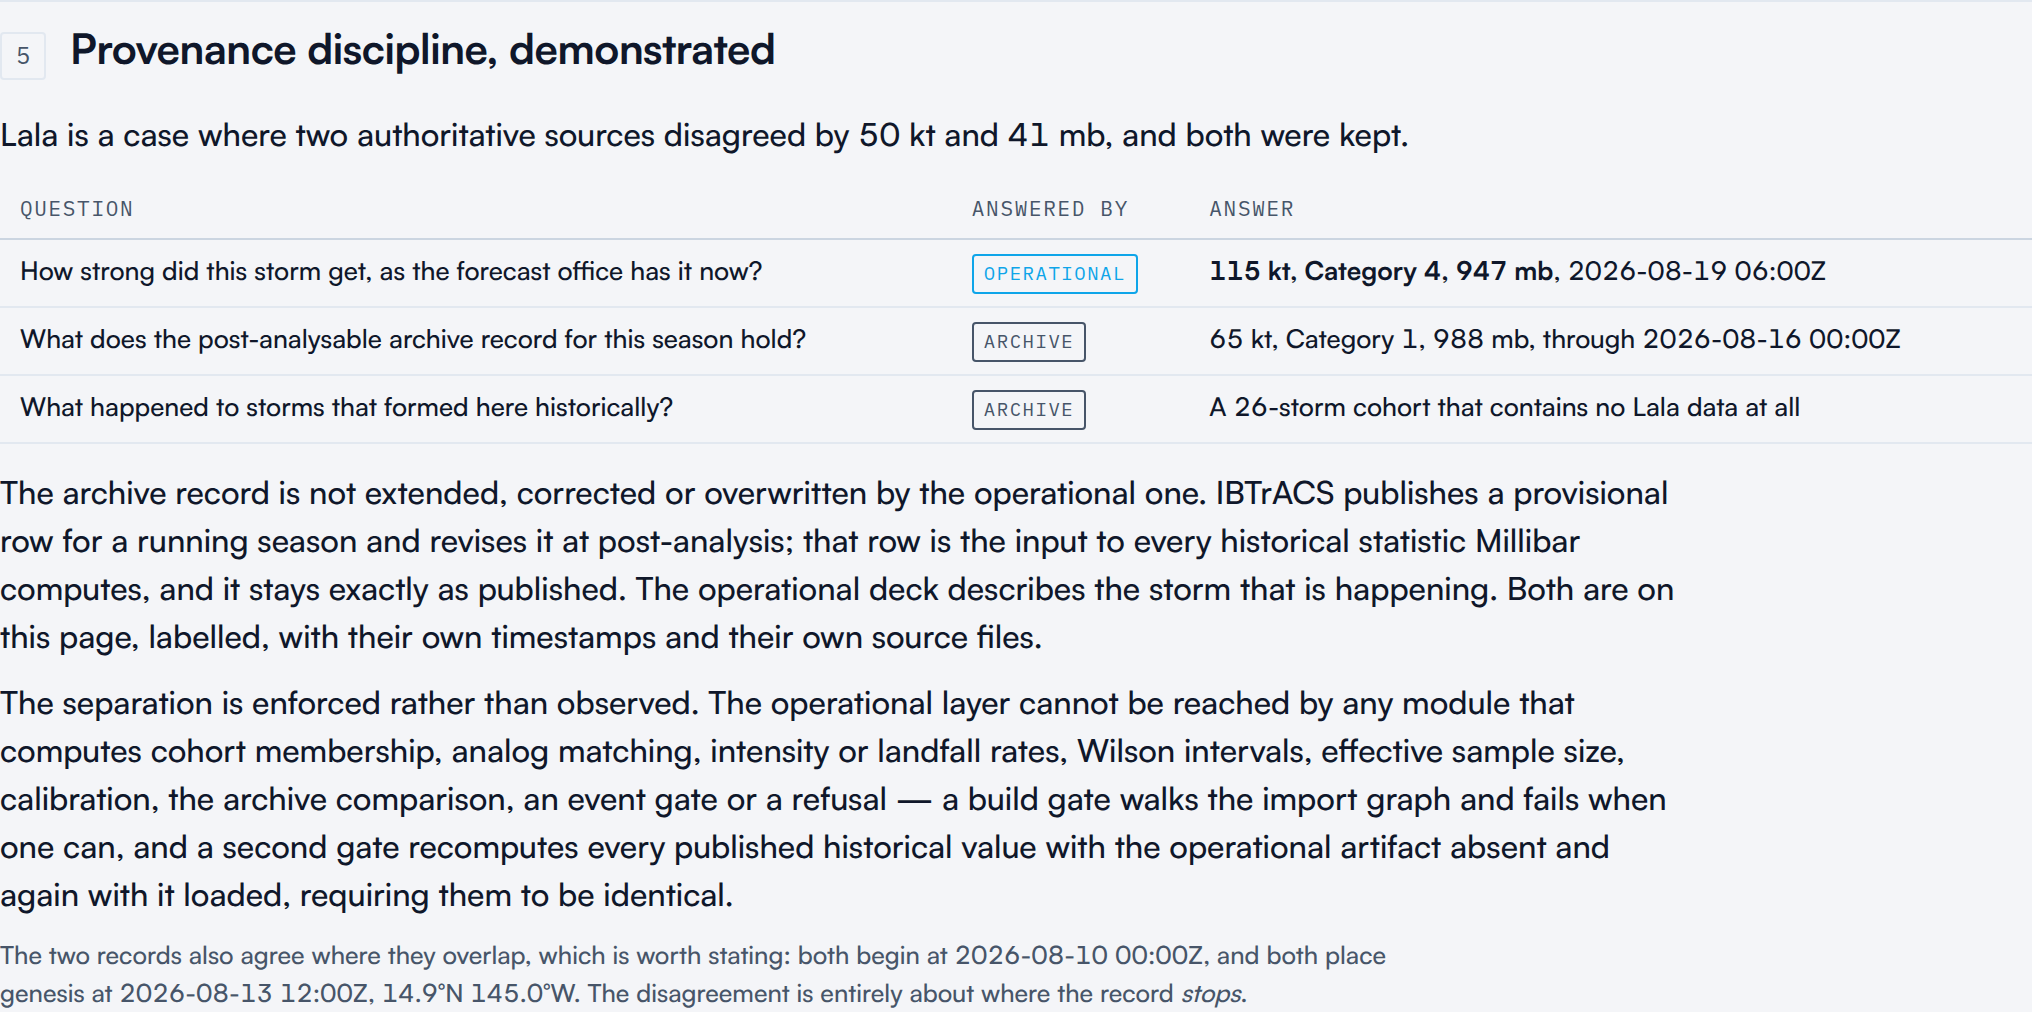
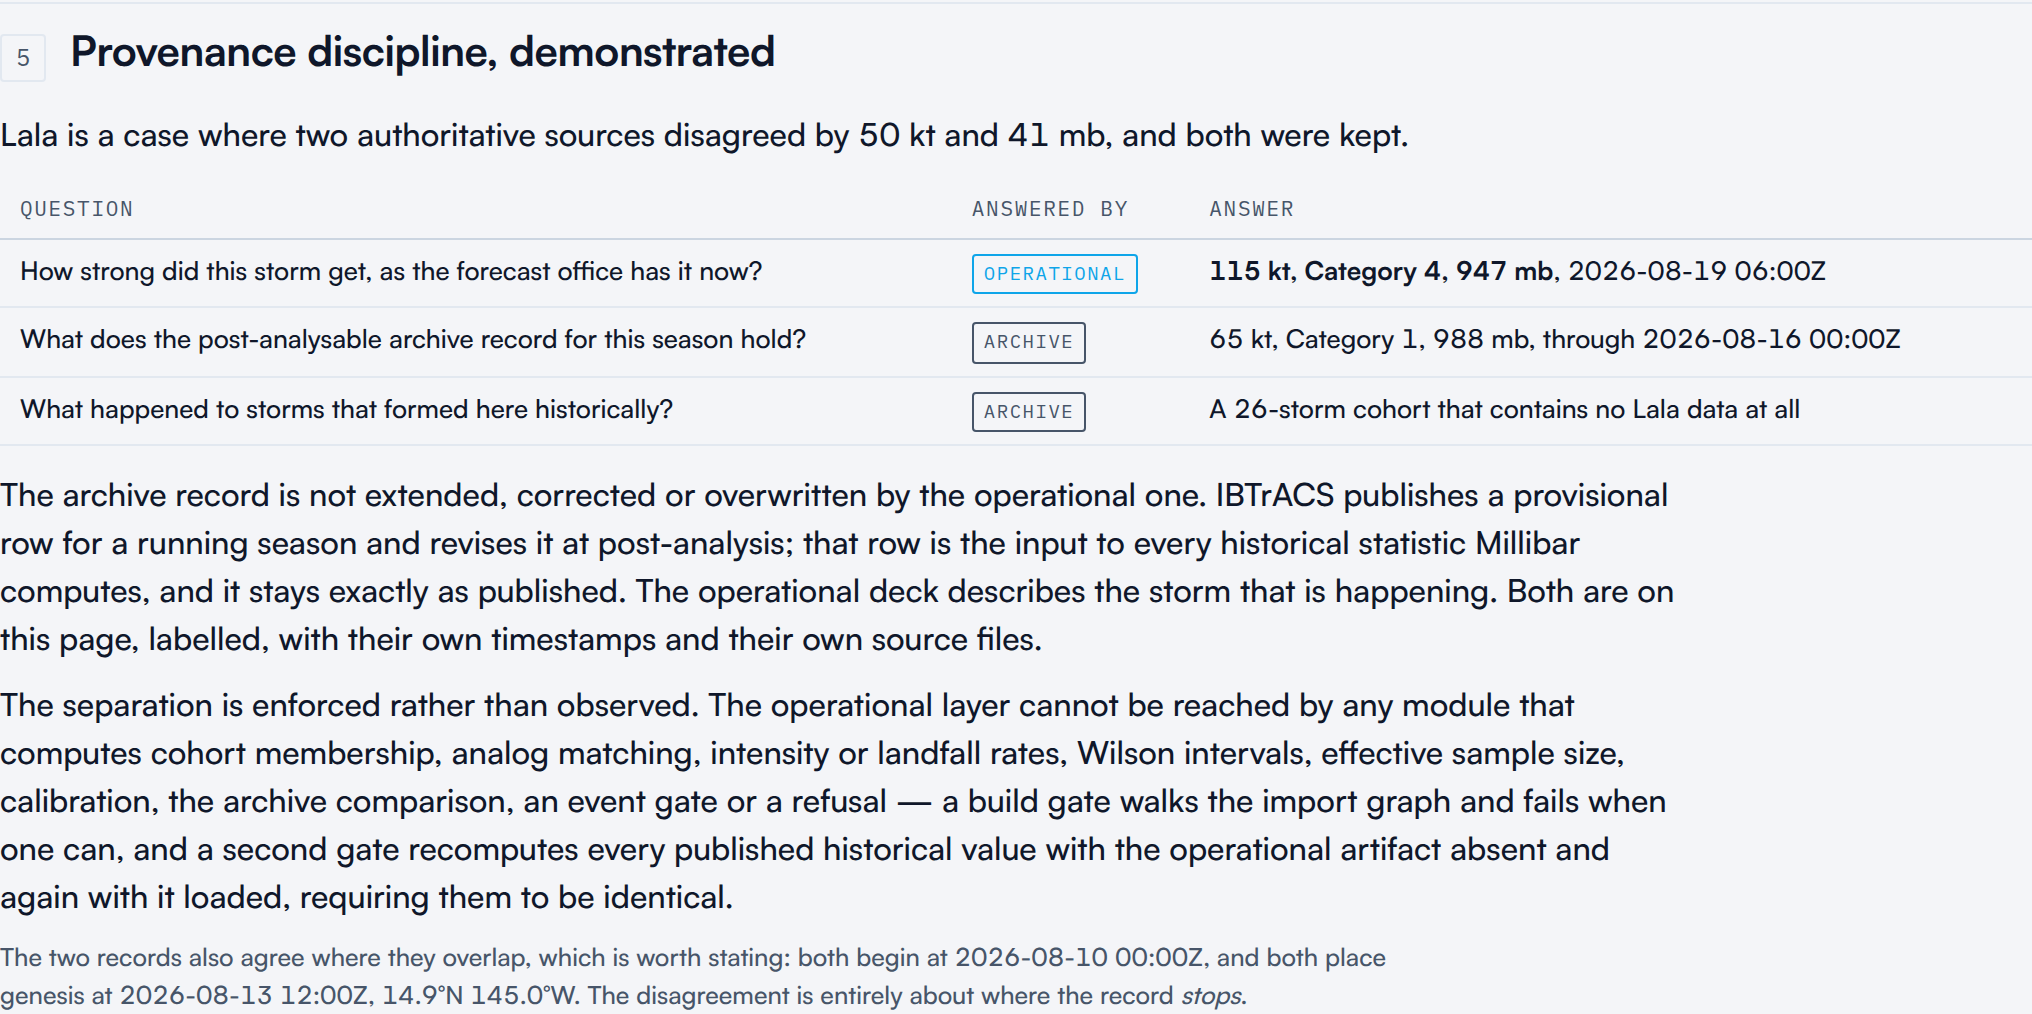
Remove the event-contract price column from the Lala dossier
The dossier is the first artifact institutional readers see, and a column of
event-contract prices in section 4 made a document about archive provenance
read like a trading surface. It is removed from the page, from facts.json and
from the three outreach notes.

WHAT GOES. The section 4 Market column and its cell values; the
EXTERNAL / PUBLIC CONTRACT provenance class and its tag; the note naming the
contract; pMarket in the checkpoint projection; the external_public_contract
block in facts.json. The provenance key is back to four classes, and the
masthead, the key and section 6 all state plainly again that no external or
public contract fact is used anywhere -- which is now unqualifiedly true.

WHAT STAYS. Everything the document actually argues from. The 141-entry
point-in-time ledger, its first-record-to-outcome lead, the model and
calibrated probabilities, the calibration refusal, and the replay-discipline
framing are untouched. The pinned ledger under data/ is still the verbatim
CP012026 slice, including fields this dossier does not read: it is the evidence
that these values were recorded before the outcome and unedited, and quietly
stripping fields from it to manage positioning is the kind of silent revision
this whole document argues against.

No Storm Atlas source, no pipeline, no second version of the page. The three
masthead screenshots and the section 4 shot are re-taken because the page
changed; the rest are unchanged.
[…]

diff --git a/docs/dossier/lala/index.html b/docs/dossier/lala/index.html
@@ -76,7 +76,6 @@ tr.mark td,tr.mark th{background:var(--surface-sunken)}
 .t-operational{color:var(--accent)}
 .t-derived{color:var(--text-2)}
 .t-recordedmillibar{color:var(--accent)}
-.t-externalpubliccontract{color:var(--warn)}
 .flag{font-family:var(--font-mono);font-size:10.5px;letter-spacing:.06em;color:var(--warn)}
 .pos{color:var(--pos)}.neg{color:var(--neg)}
 .refuse-in{font-family:var(--font-mono);font-size:10px;color:var(--warn);letter-spacing:.04em}
@@ -131,13 +130,13 @@ footer p{font-size:11.5px;color:var(--text-2);max-width:none}
     <span>Built 2026-08-25 20:52Z</span>
     <span>Archive c3998bd7bd784a62 · built 2026-08-18</span>
     <span>Methodology 1.1.0</span>
-    <span>Insurance / reinsurance contract facts used: <b>none</b></span>
+    <span>External / public contract facts used: <b>none</b></span>
   </div>
 </header>
 
 <section class="key">
   <h2>How to read every number on this page</h2>
-  <p class="lead">Five sources answer five different questions. They are labelled everywhere and
+  <p class="lead">Four sources answer four different questions. They are labelled everywhere and
   never combined.</p>
   <table>
     <tbody>
@@ -145,12 +144,11 @@ footer p{font-size:11.5px;color:var(--text-2);max-width:none}
       <tr><td><span class="tag t-operational">OPERATIONAL</span></td><td>ATCF b-deck and operational SHIPS, as the forecast office had them. Revised while a storm is live. Used to describe <b>this storm</b>, and nothing else.</td></tr>
       <tr><td><span class="tag t-derived">DERIVED</span></td><td>Computed here by replaying a rule the archive already owns. The rule is named wherever a derived value appears.</td></tr>
       <tr><td><span class="tag t-recordedmillibar">RECORDED / MILLIBAR</span></td><td>Timestamped Millibar system output, pinned here from docs/data/forecast-log.json. Evidence of what the system recorded at that instant. It is not an upstream observation, it is not evidence of forecasting skill, and it was not necessarily published externally at the time.</td></tr>
-      <tr><td><span class="tag t-externalpubliccontract">EXTERNAL / PUBLIC CONTRACT</span></td><td>The last quoted price on <code>KXHURRICANENAMES-26DEC01CPAC-LAL</code>, a public binary event contract, as Millibar recorded it at that instant. It appears in one column of section 4 and nowhere else. It is not an insurance or reinsurance contract, and not a Millibar valuation of one.</td></tr>
     </tbody>
   </table>
-  <p class="note">No insurance or reinsurance contract fact is used anywhere in this document. No
-  carrier, policy, trigger geometry, attachment threshold or payout function is named, reconstructed
-  or implied.</p>
+  <p class="note">No external or public contract fact is used anywhere in this document. No carrier,
+  policy, trigger geometry, attachment threshold or payout function is named, reconstructed or
+  implied, and no price quoted or settled outside Millibar enters any figure here.</p>
 </section>
 
 <!-- ============================================================ 1 -->
@@ -377,22 +375,17 @@ footer p{font-size:11.5px;color:var(--text-2);max-width:none}
   either exists for this storm.</p>
 
   <table class="chron">
-    <thead><tr><th>UTC recorded</th><th>Checkpoint</th><th class="n">Storm</th><th class="n">Model</th><th class="n">Calibrated</th><th class="n">Market<div class="th2">external / public contract</div></th><th class="n">Lead to outcome</th></tr></thead>
+    <thead><tr><th>UTC recorded</th><th>Checkpoint</th><th class="n">Storm</th><th class="n">Model</th><th class="n">Calibrated</th><th class="n">Lead to outcome</th></tr></thead>
     <tbody>
-      <tr><td>2026-08-14 16:22Z</td><td>first record of any kind</td><td class="n">50 kt</td><td class="n">59.8%</td><td class="n">—</td><td class="n">81.5%</td><td class="n">26 h</td></tr>
-      <tr><td>2026-08-15 17:57Z</td><td>last record before the outcome</td><td class="n">60 kt</td><td class="n">67.4%</td><td class="n">75.4%</td><td class="n">79.0%</td><td class="n">3 min</td></tr>
-      <tr><td>2026-08-19 08:35Z</td><td>highest intensity recorded</td><td class="n">115 kt</td><td class="n">99.0%</td><td class="n">99.0%</td><td class="n">99.0%</td><td class="n">—</td></tr>
-      <tr><td>2026-08-25 20:48Z</td><td>most recent record</td><td class="n">45 kt</td><td class="n">1.0%</td><td class="n">1.0%</td><td class="n">—</td><td class="n">—</td></tr>
+      <tr><td>2026-08-14 16:22Z</td><td>first record of any kind</td><td class="n">50 kt</td><td class="n">59.8%</td><td class="n">—</td><td class="n">26 h</td></tr>
+      <tr><td>2026-08-15 17:57Z</td><td>last record before the outcome</td><td class="n">60 kt</td><td class="n">67.4%</td><td class="n">75.4%</td><td class="n">3 min</td></tr>
+      <tr><td>2026-08-19 08:35Z</td><td>highest intensity recorded</td><td class="n">115 kt</td><td class="n">99.0%</td><td class="n">99.0%</td><td class="n">—</td></tr>
+      <tr><td>2026-08-25 20:48Z</td><td>most recent record</td><td class="n">45 kt</td><td class="n">1.0%</td><td class="n">1.0%</td><td class="n">—</td></tr>
     </tbody>
   </table>
   <p class="note">Checkpoints are chosen for what each establishes — the first record, the last before the outcome, the highest intensity recorded, and the current state — not for how they read. Full ledger: <code>data/forecast-log-cp012026.json</code>,
   141 entries. <span class="tag t-recordedmillibar">RECORDED / MILLIBAR</span></p>
 
-  <p class="note">The market column is the last quoted price on <code>KXHURRICANENAMES-26DEC01CPAC-LAL</code>, a
-  public binary event contract settling on the same 65 kt question, recorded by Millibar at the
-  same instant as the model value beside it. <span class="tag t-externalpubliccontract">EXTERNAL / PUBLIC CONTRACT</span> It is
-  not an insurance or reinsurance contract, and not a Millibar valuation of one. Millibar did not write, price, hedge or hold it, and no model on this page is
-  fitted to it.</p>
 
   <p>The outcome the question was about: Lala first reached 65 kt at
   2026-08-15 18:00Z <span class="tag t-operational">OPERATIONAL</span>.</p>
@@ -447,8 +440,8 @@ footer p{font-size:11.5px;color:var(--text-2);max-width:none}
 <!-- ============================================================ 6 -->
 <section>
   <h2><span class="num">6</span> Where this architecture is relevant to parametric risk</h2>
-  <p class="lead">Capabilities, against public primitives. No insurance or reinsurance contract
-  terms are used, held or implied.</p>
+  <p class="lead">Capabilities, against public primitives. No contract terms of any kind are used,
+  held or implied.</p>
 
   <table class="cmp">
     <thead><tr><th>Need</th><th>What this architecture provides</th></tr></thead>
@@ -460,9 +453,7 @@ footer p{font-size:11.5px;color:var(--text-2);max-width:none}
       <tr><td>Model challenge</td><td>Refusals are first-class outputs. A cohort that cannot support a probability says which population it counted and why, as section 3 does for the Hawaiʻi rate under the 1971 floor.</td></tr>
     </tbody>
   </table>
-  <p class="note">Insurance / reinsurance contract facts used in this document: <b>none</b>. The
-  one external contract fact that does appear — the section 4 market column — is a public event
-  contract price, labelled <span class="tag t-externalpubliccontract">EXTERNAL / PUBLIC CONTRACT</span> where it is used.</p>
+  <p class="note">External / public contract facts used in this document: <b>none</b>.</p>
 </section>
 
 <!-- ============================================================ 7 -->

diff --git a/docs/dossier/lala/outreach/ils.md b/docs/dossier/lala/outreach/ils.md
@@ -26,8 +26,6 @@ Request an institutional walkthrough / design-partner discussion.
 
 ---
 Millibar · `/dossier/lala` · built 2026-08-25 20:52Z · archive c3998bd7bd784a62 · methodology 1.1.0
-Insurance / reinsurance contract facts used: none. No carrier, policy,
-trigger geometry, attachment threshold or payout function is named, reconstructed or implied. The
-public binary event contract `KXHURRICANENAMES-26DEC01CPAC-LAL` appears as a recorded price
-in one column of the dossier's section 4 and is labelled there.
+External / public contract facts used: none. No carrier, policy,
+trigger geometry, attachment threshold or payout function is named, reconstructed or implied.
 Research use. Not a forecast, not advice, not an offer.

diff --git a/docs/dossier/lala/outreach/natcat-art.md b/docs/dossier/lala/outreach/natcat-art.md
@@ -28,8 +28,6 @@ Request an institutional walkthrough / design-partner discussion.
 
 ---
 Millibar · `/dossier/lala` · built 2026-08-25 20:52Z · archive c3998bd7bd784a62 · methodology 1.1.0
-Insurance / reinsurance contract facts used: none. No carrier, policy,
-trigger geometry, attachment threshold or payout function is named, reconstructed or implied. The
-public binary event contract `KXHURRICANENAMES-26DEC01CPAC-LAL` appears as a recorded price
-in one column of the dossier's section 4 and is labelled there.
+External / public contract facts used: none. No carrier, policy,
+trigger geometry, attachment threshold or payout function is named, reconstructed or implied.
 Research use. Not a forecast, not advice, not an offer.

diff --git a/docs/dossier/lala/outreach/parametric.md b/docs/dossier/lala/outreach/parametric.md
@@ -27,8 +27,6 @@ Request an institutional walkthrough / design-partner discussion.
 
 ---
 Millibar · `/dossier/lala` · built 2026-08-25 20:52Z · archive c3998bd7bd784a62 · methodology 1.1.0
-Insurance / reinsurance contract facts used: none. No carrier, policy,
-trigger geometry, attachment threshold or payout function is named, reconstructed or implied. The
-public binary event contract `KXHURRICANENAMES-26DEC01CPAC-LAL` appears as a recorded price
-in one column of the dossier's section 4 and is labelled there.
+External / public contract facts used: none. No carrier, policy,
+trigger geometry, attachment threshold or payout function is named, reconstructed or implied.
 Research use. Not a forecast, not advice, not an offer.

diff --git a/docs/dossier/lala/DEMO-SCRIPT.md b/docs/dossier/lala/DEMO-SCRIPT.md
@@ -74,9 +74,9 @@ scope, so no live data touches the statistics.
 
 ## 2:50 – 3:00 · Close
 
-> "Two sources, five provenance classes, never blended, refusals on the page rather than in a
-> footnote. No insurance or reinsurance contract fact anywhere in it. If you want to test it
-> against your own exposure and your own trigger terms, that is the conversation."
+> "Two sources, four provenance classes, never blended, refusals on the page rather than in a
+> footnote. No contract fact of any kind anywhere in it. If you want to test it against your own
+> exposure and your own trigger terms, that is the conversation."
 
 ---
 

diff --git a/docs/dossier/lala/SUMMARY.md b/docs/dossier/lala/SUMMARY.md
@@ -2,7 +2,7 @@
 
 **Millibar · 2026 EP/CP Pacific · archive id 2026222N15223 · built 2026-08-25 20:52Z**
 Archive c3998bd7bd784a62 · methodology 1.1.0 · full dossier `/dossier/lala` · facts `facts.json`
-Insurance / reinsurance contract facts used: **none**.
+External / public contract facts used: **none**.
 
 **Two records describe this storm. They begin at the same instant, 2026-08-10 00:00Z, and end 9.8 d apart.**
 
